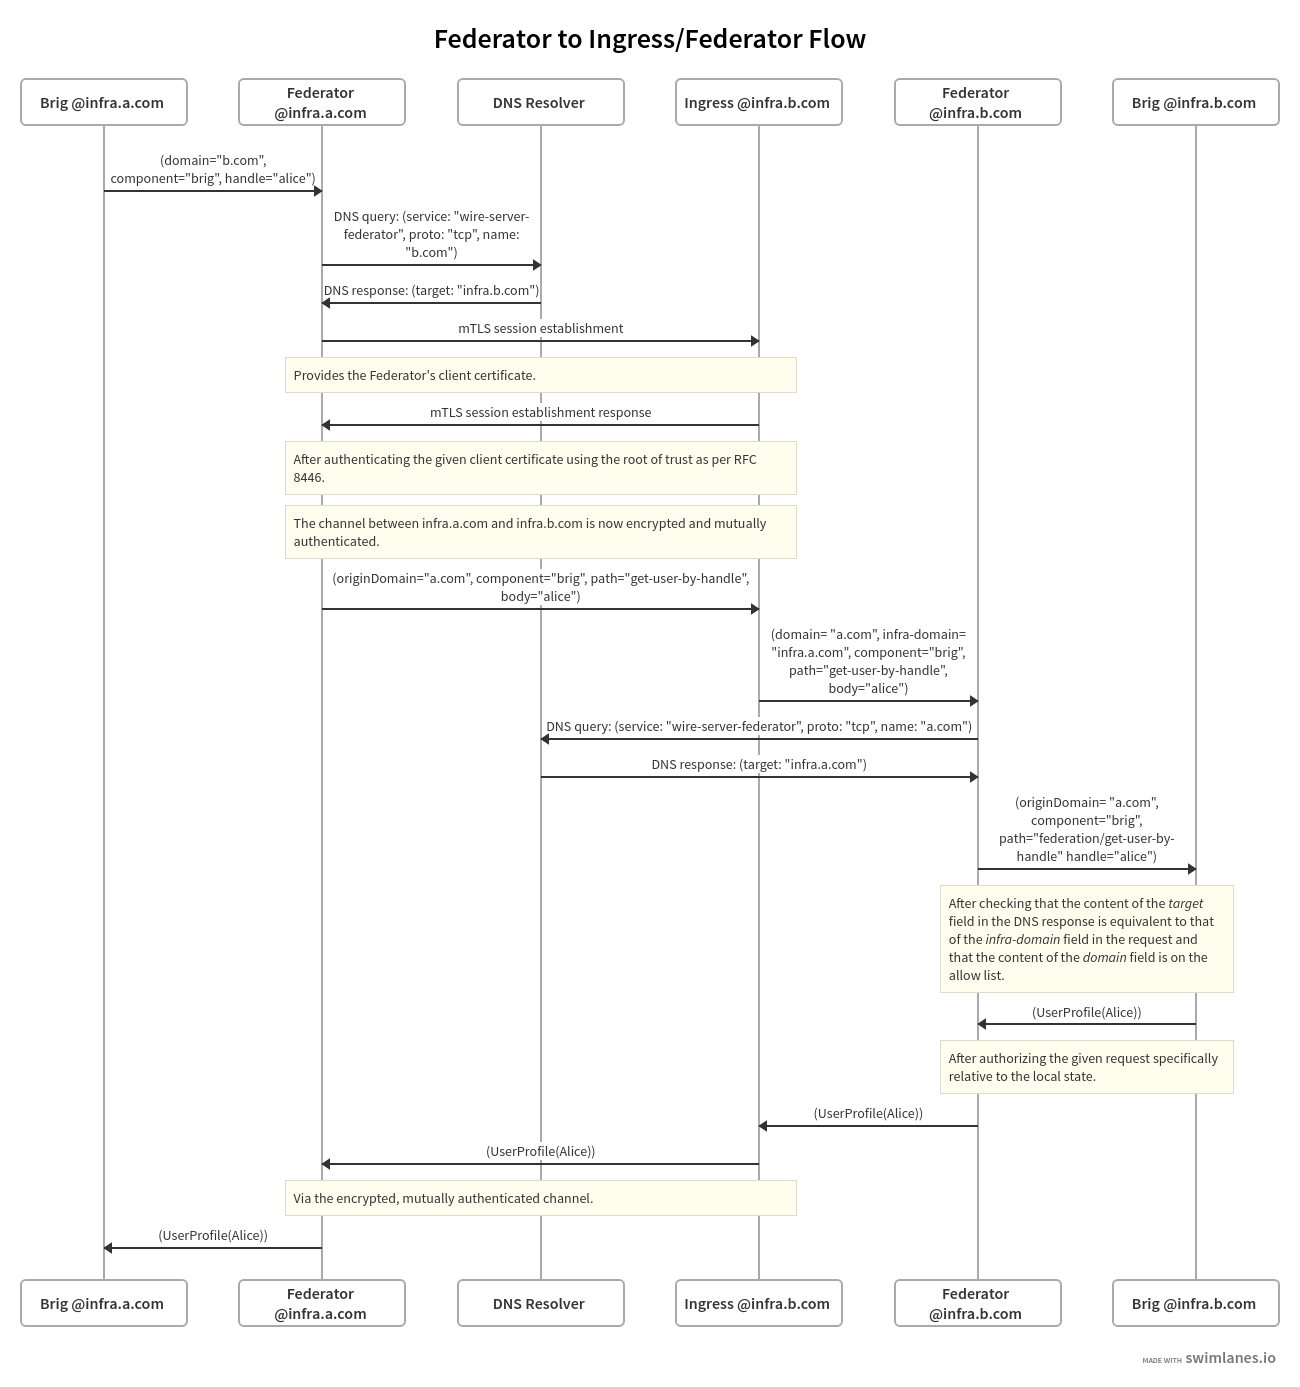
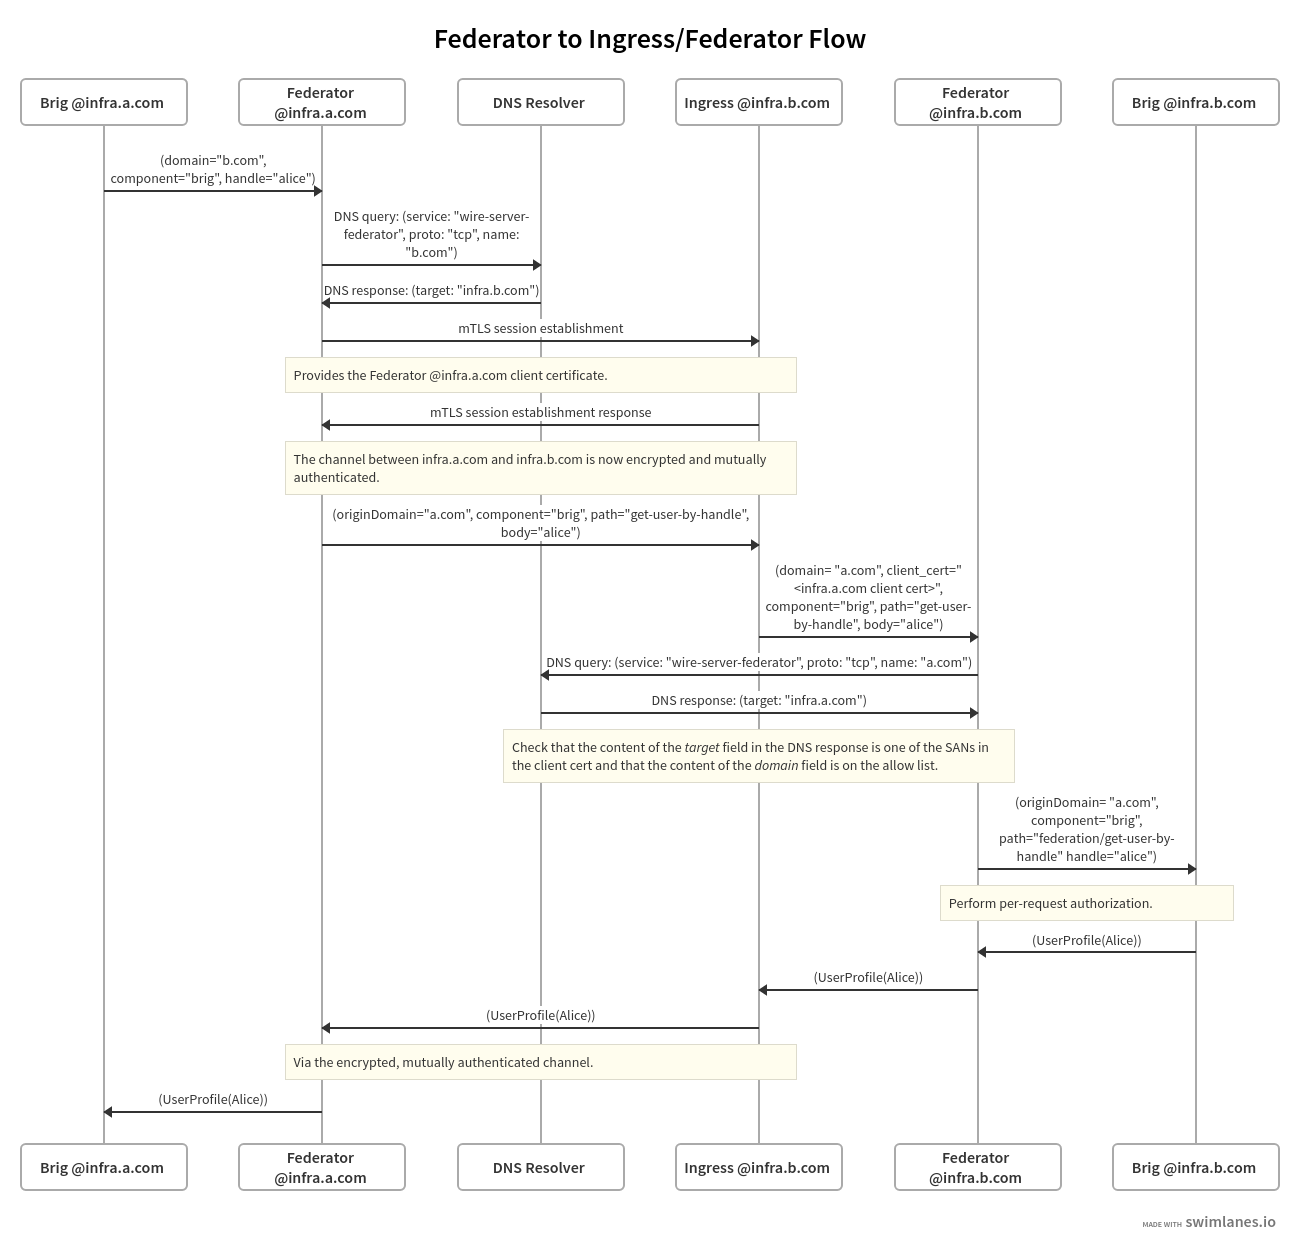
improve figure and clarify discovery process

diff --git a/src/understand/federation/architecture.rst b/src/understand/federation/architecture.rst
@@ -72,7 +72,9 @@ Its functions are:
 
   - perform mutual :ref:`authentication` as part of the TLS connection
     establishment
-* forward requests to the local :ref:`Federator <federator>` instance
+
+* forward requests to the local :ref:`Federator <federator>` instance, along
+  with the remote backend's client certificate
 
 
 .. _federator:
@@ -83,12 +85,13 @@ Federator
 .. warning:: As of July 2021, authentication is not fully implemented. See the
              section on :ref:`authentication` for more details.
 
-The `Federator` acts as egress point for other backend components. It can be
-configured to use an :ref:`allow list <allow-list>` to authorize incoming and
-outgoing connections, and it keeps an X.509 client certificate for the backend's
-infra domain to authenticate itself towards other backends. Additionally, it
-requires a connection to a DNS resolver to :ref:`discover<discovery>` other
-backends.
+The `Federator` performs additional authorization checks after receiving
+federated requests from the Ingress and acts as egress point for other backend
+components. It can be configured to use an :ref:`allow list <allow-list>` to
+authorize incoming and outgoing connections, and it keeps an X.509 client
+certificate for the backend's infra domain to authenticate itself towards other
+backends. Additionally, it requires a connection to a DNS resolver to
+:ref:`discover<discovery>` other backends.
 
 When receiving a request from an internal component, the `Federator` will:
 
@@ -102,10 +105,13 @@ When receiving a request from an internal component, the `Federator` will:
 
 The `Federator` also implements the authorization logic for incoming requests and
 acts as intermediary between the `Federation Ingress` and the internal
-components. The 'Rederator' will, for incoming requests from other backends
+components. The `Federator` will, for incoming requests from remote backends
 (forwarded via the local :ref:`Federation Ingress <federation_ingress>`):
 
-#. Discover the backend domain claimed by the other backend,
+#. :ref:`Discover <discovery>` the mapping between backend domain claimed by the
+   remote backend and its infra domain,
+#. verify that the discovered infra domain matches the domain in the remote
+   backend's client certificate,
 #. if enabled, ensure that the backend domain of the other backend is in the
    :ref:`allow list <allow-list>`,
 #. normalize and sanitize the :ref:`path component <federator-component-api>` of
@@ -159,15 +165,14 @@ feature of TLS as defined in `RFC 8556 <https://tools.ietf.org/html/rfc8446>`_.
 
 In particular, this means that the ingress of each backend needs to be
 provisioned with one or more certificates which it trusts to authenticate
-certificates provided by other backends when accepting incoming connections from
-other backends.
+certificates provided by other backends when accepting incoming connections.
 
 Conversely, every `Federator` needs to be provisioned with a (client)
 certificate which it uses to authenticate itself towards other backends.
 
 Note that the client certificate is expected to be issued with the backend's
-infra domain as the subject alternative name (SAN), which is defined in `RFC
-5280 <https://tools.ietf.org/html/rfc5280>`_.
+infra domain as one of the subject alternative names (SAN), which is defined in
+`RFC 5280 <https://tools.ietf.org/html/rfc5280>`_.
 
 If a receiving backend fails to authenticate the client certificate, it should
 reply with an :ref:`authentication error <authentication error>`.
@@ -255,10 +260,11 @@ domain, it is not clear that the sending backend is indeed authorized by the
 owner of the backend domain to host the Wire backend of that particular domain.
 
 To perform this extra authorization step, the receiving backend follows the
-process described in :ref:`discovery` and compares the discovered infra domain
-for the backend domain indicated in the `Wire-Domain` header with the one the
-sending backend authenticated as. If there is a mismatch, the receiving backend
-replies with a :ref:`discovery error <discovery error>`.
+process described in :ref:`discovery` and checks that the discovered infra
+domain for the backend domain indicated in the `Wire-Domain` header is one of
+the Subject Alternative Names contained in the sending backend's client
+certificate. If this is not the case, the receiving backend replies with a
+:ref:`discovery error <discovery error>`.
 
 Finally, the receiving backend checks if the domain of the sending backend is in
 the :ref:`allow-list` and replies with an :ref:`authorization error
